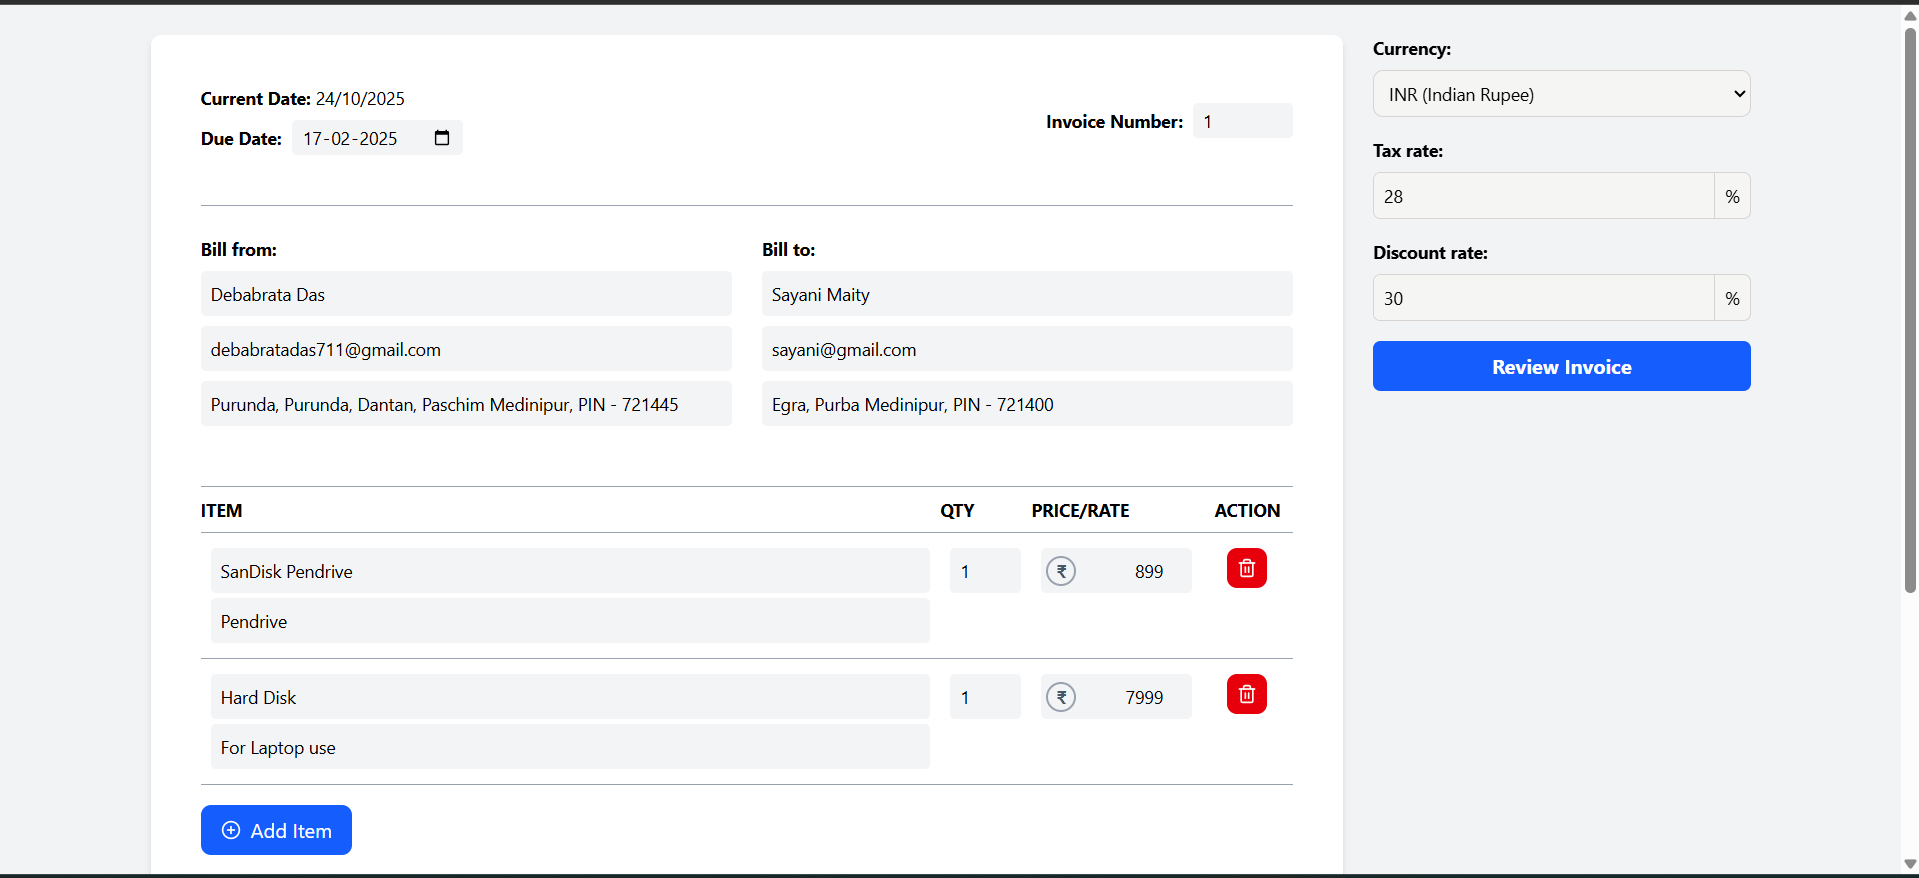
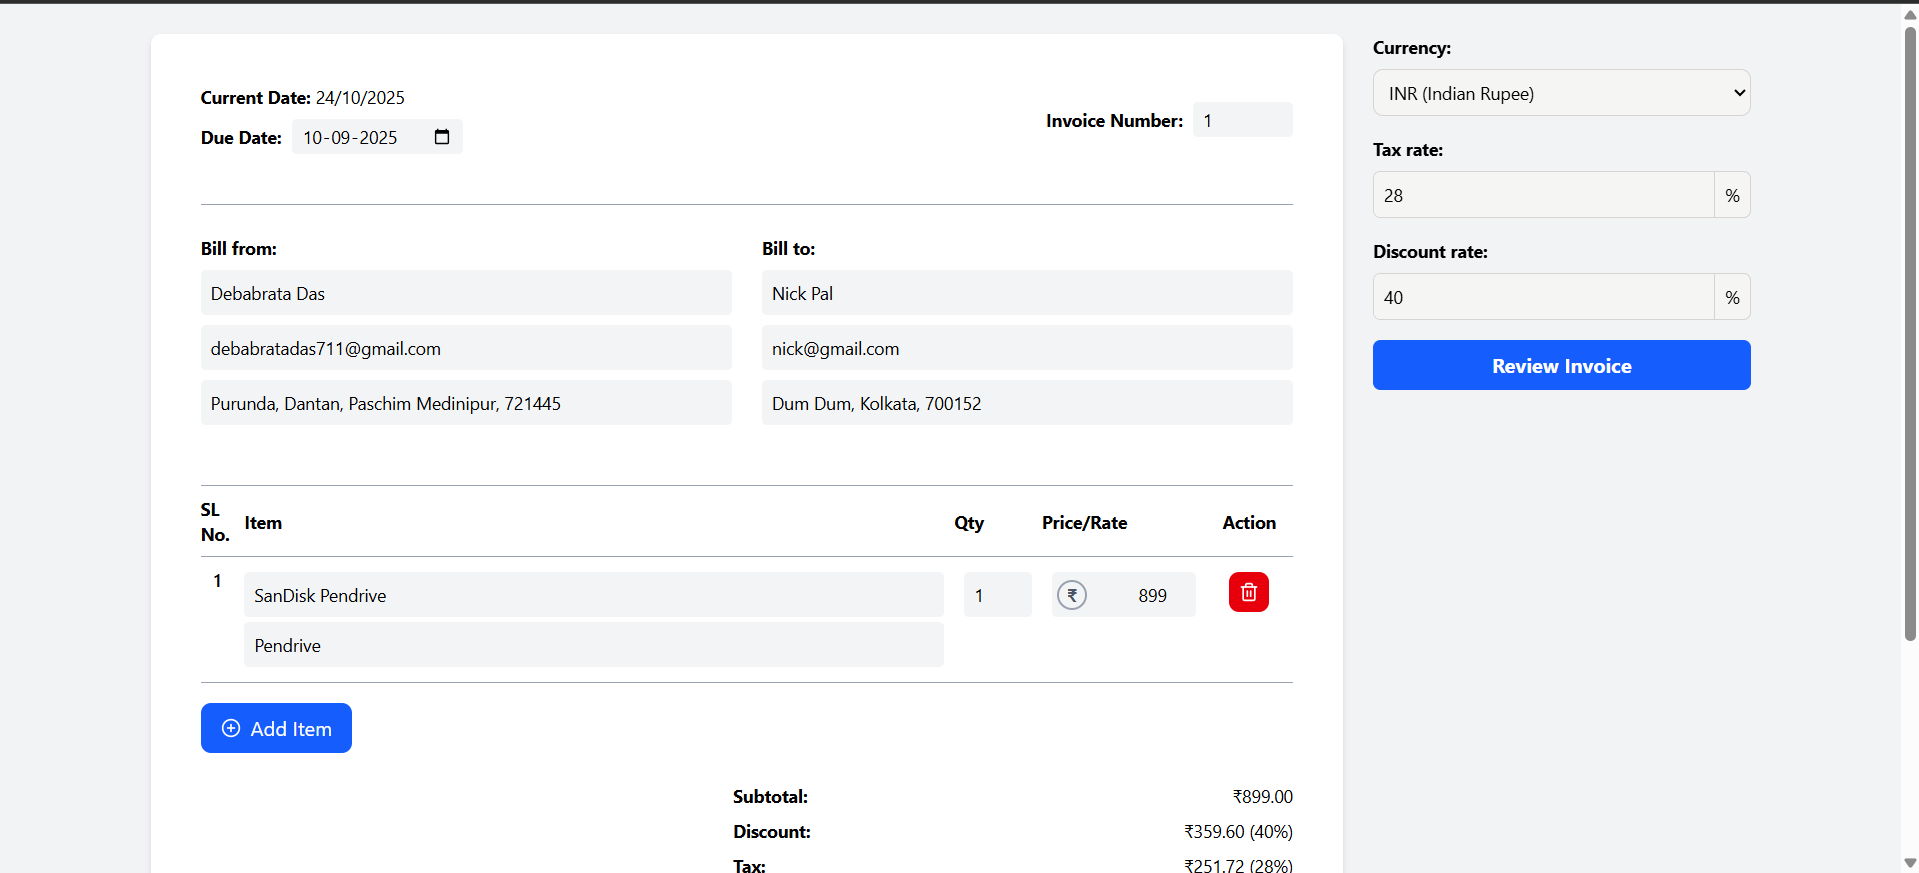
modified

diff --git a/src/components/InvoiceItem.jsx b/src/components/InvoiceItem.jsx
@@ -8,16 +8,18 @@ const InvoiceItem = ({ items, onItemizedItemEdit, currency, onRowDel, onRowAdd }
       <table className="w-full border-y border-gray-400 table-fixed">
         <thead>
           <tr className="text-left text-sm border-y border-gray-400">
-            <th className="py-2 w-[65%]">ITEM</th>
-            <th className="py-2 w-[8%]">QTY</th>
-            <th className="py-2 w-[15%]">PRICE/RATE</th>
-            <th className="py-2 w-[8%] text-center">ACTION</th>
+            <th className="py-2 w-[4%]">SL No.</th>
+            <th className="py-2 w-[65%]">Item</th>
+            <th className="py-2 w-[8%]">Qty</th>
+            <th className="py-2 w-[15%]">Price/Rate</th>
+            <th className="py-2 w-[8%] text-center">Action</th>
           </tr>
         </thead>
         <tbody>
-          {items.map((item) => (
+          {items.map((item, index) => (
             <ItemRow
               key={item.id}
+              index={index}
               item={item}
               onItemizedItemEdit={onItemizedItemEdit}
               onDelEvent={onRowDel}
@@ -37,9 +39,10 @@ const InvoiceItem = ({ items, onItemizedItemEdit, currency, onRowDel, onRowAdd }
   );
 };
 
-const ItemRow = ({ item, onItemizedItemEdit, onDelEvent, currency }) => (
+const ItemRow = ({ item, index, onItemizedItemEdit, onDelEvent, currency }) => (
   <tr className="border-b border-gray-400 align-top">
-    <td className="px-2 py-2 w-[65%]">
+    <td className="pr-2 py-2 w-[4%] text-center font-semibold">{index + 1}</td>
+    <td className="pr-2 py-2 w-[65%]">
       <EditableField
         cellData={{ type: "text", name: "name", placeholder: "Item name", value: item.name, id: item.id }}
         onItemizedItemEdit={onItemizedItemEdit}

diff --git a/src/components/InvoiceModal.jsx b/src/components/InvoiceModal.jsx
@@ -111,6 +111,7 @@ const InvoiceModal = ({
           <table className="w-full border border-gray-300 text-sm">
             <thead className="bg-gray-100">
               <tr>
+                <th className=" w-[4%] border px-2 py-1 text-left">SL No.</th>
                 <th className="border px-2 py-1 text-left">Item</th>
                 <th className="border px-2 py-1 text-center">Qty</th>
                 <th className="border px-2 py-1 text-right">Price</th>
@@ -118,12 +119,13 @@ const InvoiceModal = ({
               </tr>
             </thead>
             <tbody>
-              {items.map((item) => (
-                <tr key={item.id} className="border-b">
-                  <td className="px-2 py-1">{item.name} - {item.description}</td>
-                  <td className="px-2 py-1 text-center">{item.quantity}</td>
-                  <td className="px-2 py-1 text-right">{currency}{item.price}</td>
-                  <td className="px-2 py-1 text-right">
+              {items.map((item, index) => (
+                <tr key={item.id} className="border">
+                  <td className="px-2 py-1 border text-center">{index + 1}</td>
+                  <td className="px-2 py-1 border">{item.name} - {item.description}</td>
+                  <td className="px-2 py-1 border text-center">{item.quantity}</td>
+                  <td className="px-2 py-1 border text-right">{currency}{item.price}</td>
+                  <td className="px-2 py-1 border text-right">
                     {currency}{(item.price * item.quantity).toFixed(2)}
                   </td>
                 </tr>

diff --git a/vite.config.js b/vite.config.js
@@ -7,4 +7,7 @@ export default defineConfig({
   plugins: [react(),
   tailwindcss(),
   ],
+  build: {
+    chunkSizeWarningLimit: 1000,
+  },
 })

diff --git a/README.md b/README.md
@@ -10,7 +10,7 @@ A **frontend-only React application** to generate, download, and send invoices. 
 
 ![Home page](./public/review.png)
 
-![Home page](./public/downloadPdf.png)
+![Home page](./public/downloadPDF.png)
 
 ## Features
 
